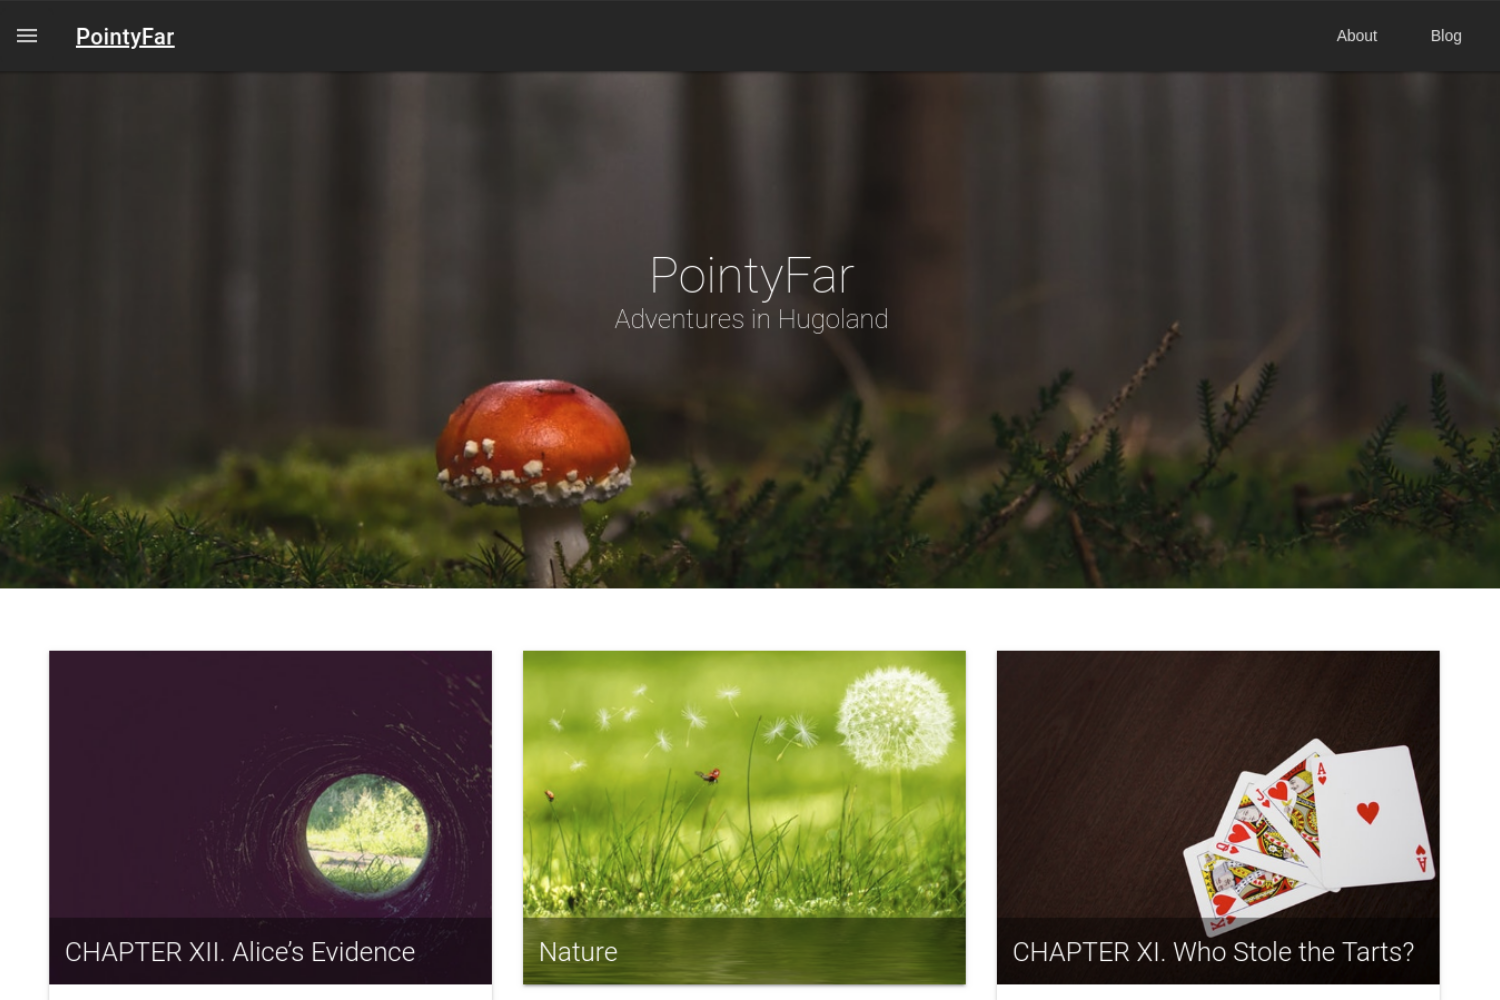
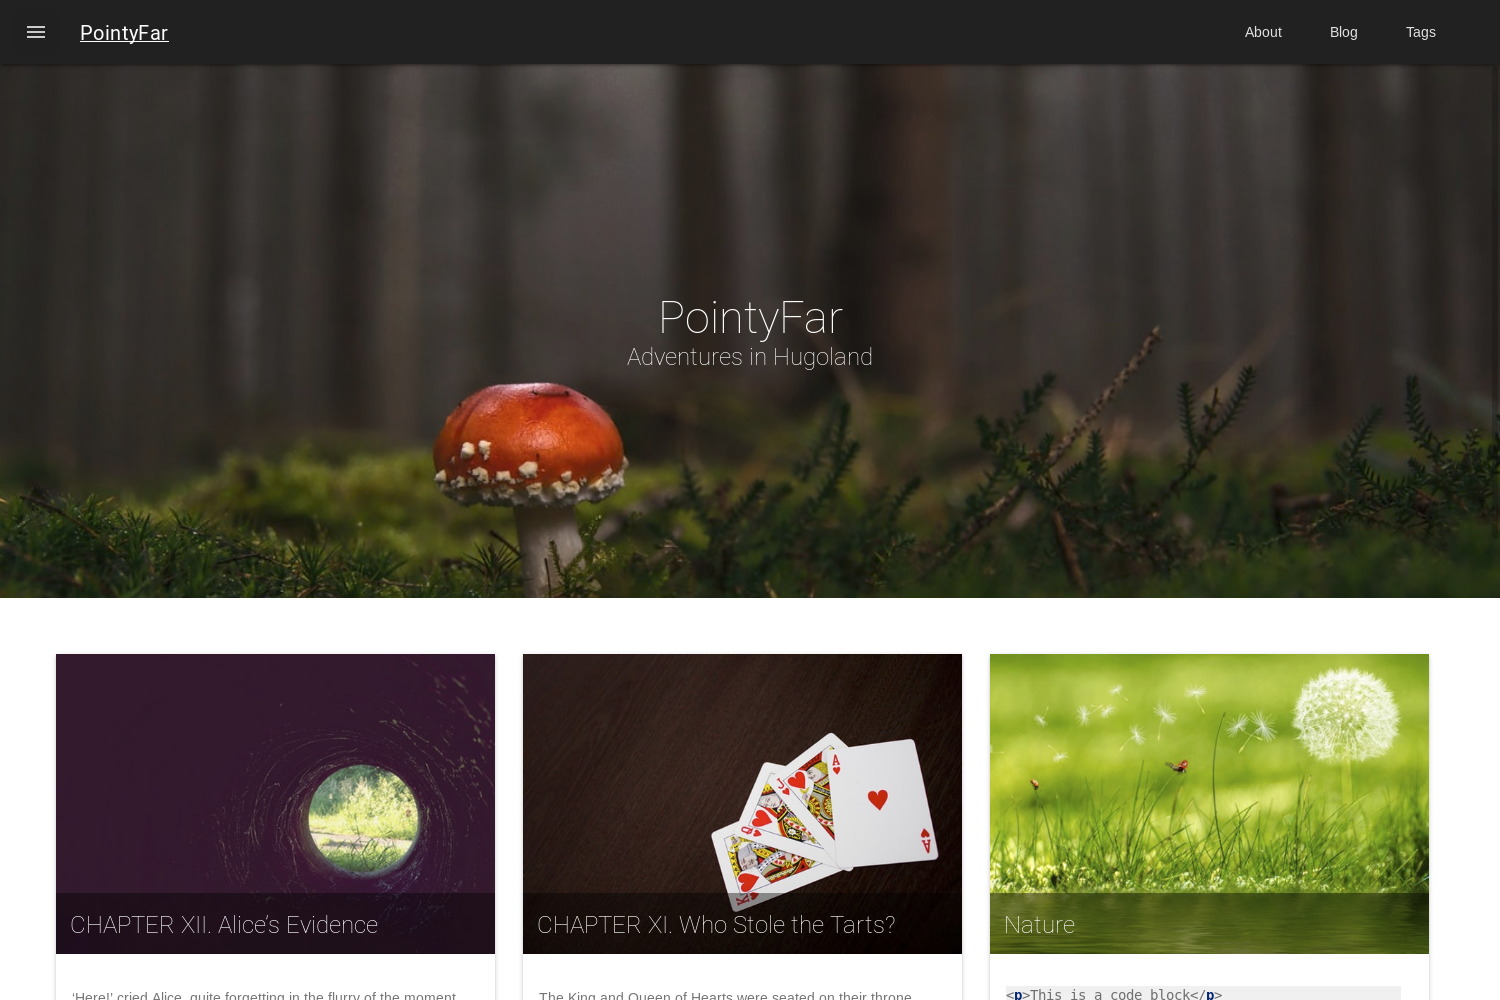
added more screenshots and detail to readme

diff --git a/layouts/partials/header.html b/layouts/partials/header.html
@@ -2,6 +2,7 @@
 <html{{ with .Site.LanguageCode }} lang="{{ . }}"{{ end }}>
 
 <head>
+  <meta name="viewport" content="width=device-width, initial-scale=1">
 
   {{ with  .Site.Params.swapFontawesome }}
     {{ . | safeHTML }}

diff --git a/README.md b/README.md
@@ -2,24 +2,46 @@
 ---
 Pointyfolio is a Hugo theme based on [Material Design](https://getmdl.io/) and [Masonry](https://masonry.desandro.com/) and ideal for sites with lots of images to showcase.
 
+An `exampleSite` with a `config.toml` is included for reference.
+
 ## Theme Features 
+
+### Common Features 
+
+Set the appropriate values to enable the corresponding feature.
+
+```toml
+# config.toml
+disqusShortname = "disqusShortname"
+googleAnalytics = "UA-123-45"
+
+# this value used to limit number of posts displayed on index.html
+paginate = 4
+
+# as discussed in https://gohugo.io/templates/menu-templates/#section-menu-for-lazy-bloggers
+sectionPagesMenu = "main"
+
+```
 
 ### Page Bundles
 This theme uses Hugo's [page bundles](https://gohugo.io/content-management/page-bundles/#readout) feature to organise image content. See the `exampleSite` for demo. Using non-image content (e.g. `.md`) is as yet untested.
 
 ### Hero Image 
+![Hero Image](images/screenshot.png)
+
 The index page features a prominent hero image, which can be configured. If left blank, it defaults to a background color of `#424242`.
-
-### Tag filters
-Navigating to `http://example.com/tags/` shows a filterable list of tags used in posts. Checking the check box triggers the selection, while clicking on the tag name takes you to a text list of all posts with tag.
-
-An `exampleSite` with a `config.toml` is included for reference.
-
 
 ```toml
 [params]
   heroImage = "stock/mushroom.jpg"
 ```
+
+
+### Tag filters
+![Tag Filters](images/tags.png)
+
+Navigating to `http://example.com/tags/` shows a filterable list of tags used in posts. Checking the check box triggers the selection, while clicking on the tag name takes you to a text list of all posts with tag.
+
 
 ## Configuration
 
@@ -53,19 +75,23 @@ A few more options can be configured as well:
 ```
 Hugo comes with [Chroma](https://gohugo.io/content-management/syntax-highlighting/). Use the above configuration, or follow the Hugo documentation for instructions on deploying with Pygments instead. Generate the css styles into `static/chroma.css`
 
-`hugo gen chromastyles  > static/chroma.css`
+`hugo gen chromastyles  > static/css/chroma.css`
 
 ```toml
 [params.highlight]
   enableHighlight = true
   highlightCSS = "<link href=\"/css/chroma.css\" rel=\"stylesheet\">"
 ```
+![Chroma Styles](images/chroma.png)
 
 To use `highlight.js` instead, set 
 ```toml
   pygmentsUseClassic = true 
   pygmentsUseClasses = false
 ```
+
+![Highlight.JS](images/hjs.png)
+
 and, if using CDN for example: 
 ```toml
 [params.hightlight]
@@ -138,10 +164,22 @@ The theme iterates over `[[params.legal]]` to populate the legal links on the fo
   icon = "fab fa-twitter"
 ```
 
-It also iterates over `[[params.social]]` to populate the social media buttons on the right side of the footer. Fontawesome is used by default, but may be replaced by your icon set of choice. Specify the url to use in `swapFontawesome`.
+It also iterates over `[[params.social]]` to populate the social media buttons on the right side of the footer. Fontawesome is used by default, but may be replaced by your icon set of choice. Specify the css to use in `swapFontawesome`.
 
 ```toml
 [params]
     swapFontawesome = "<link href=\"http://code.ionicframework.com/ionicons/2.0.1/css/ionicons.min.css\" rel=\"stylesheet\">"
 ```
     
+
+## Acknowledgments
+
+Open source is awesome! Much love and thanks go to the folks behind 
+  - [Hugo](https://gohugo.io/)
+  - [Material Design](https://getmdl.io/)
+  - [Masonry](https://masonry.desandro.com/)
+  - [MathJax](https://www.mathjax.org/)
+  - [highlight.js](https://highlightjs.org)
+  
+
+Stock Photos used on the exampleSite are credited in `exampleSite/attributions.md`
